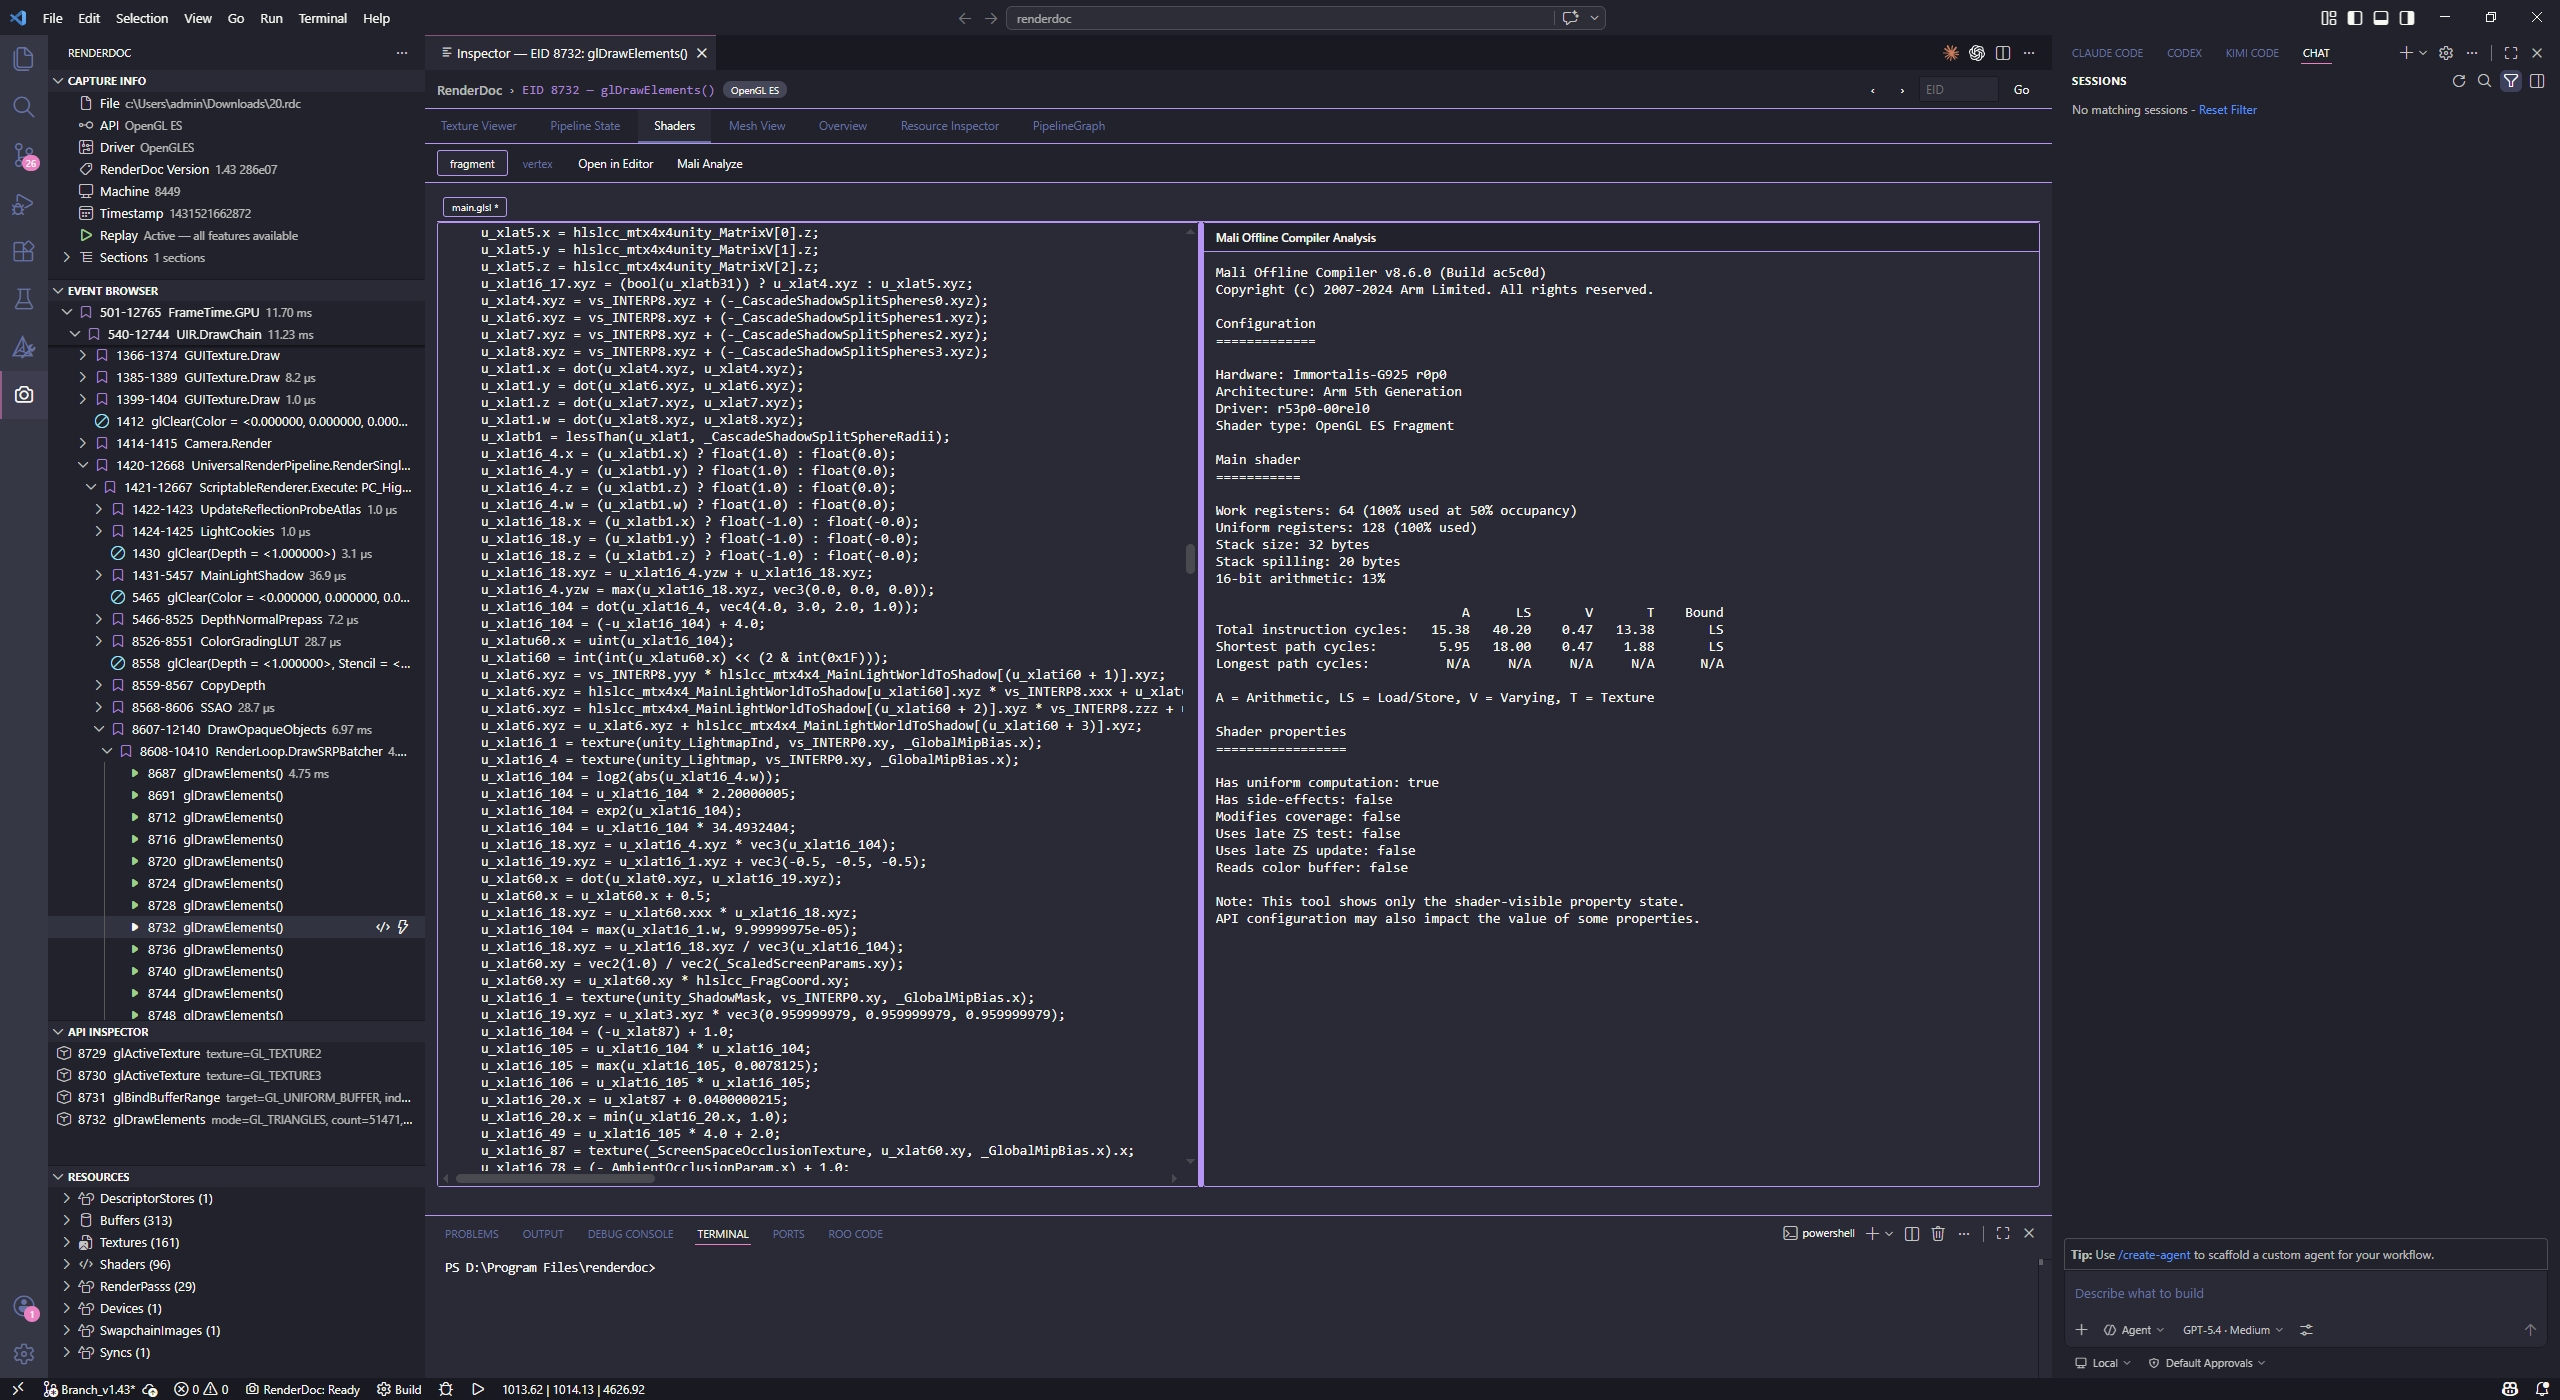
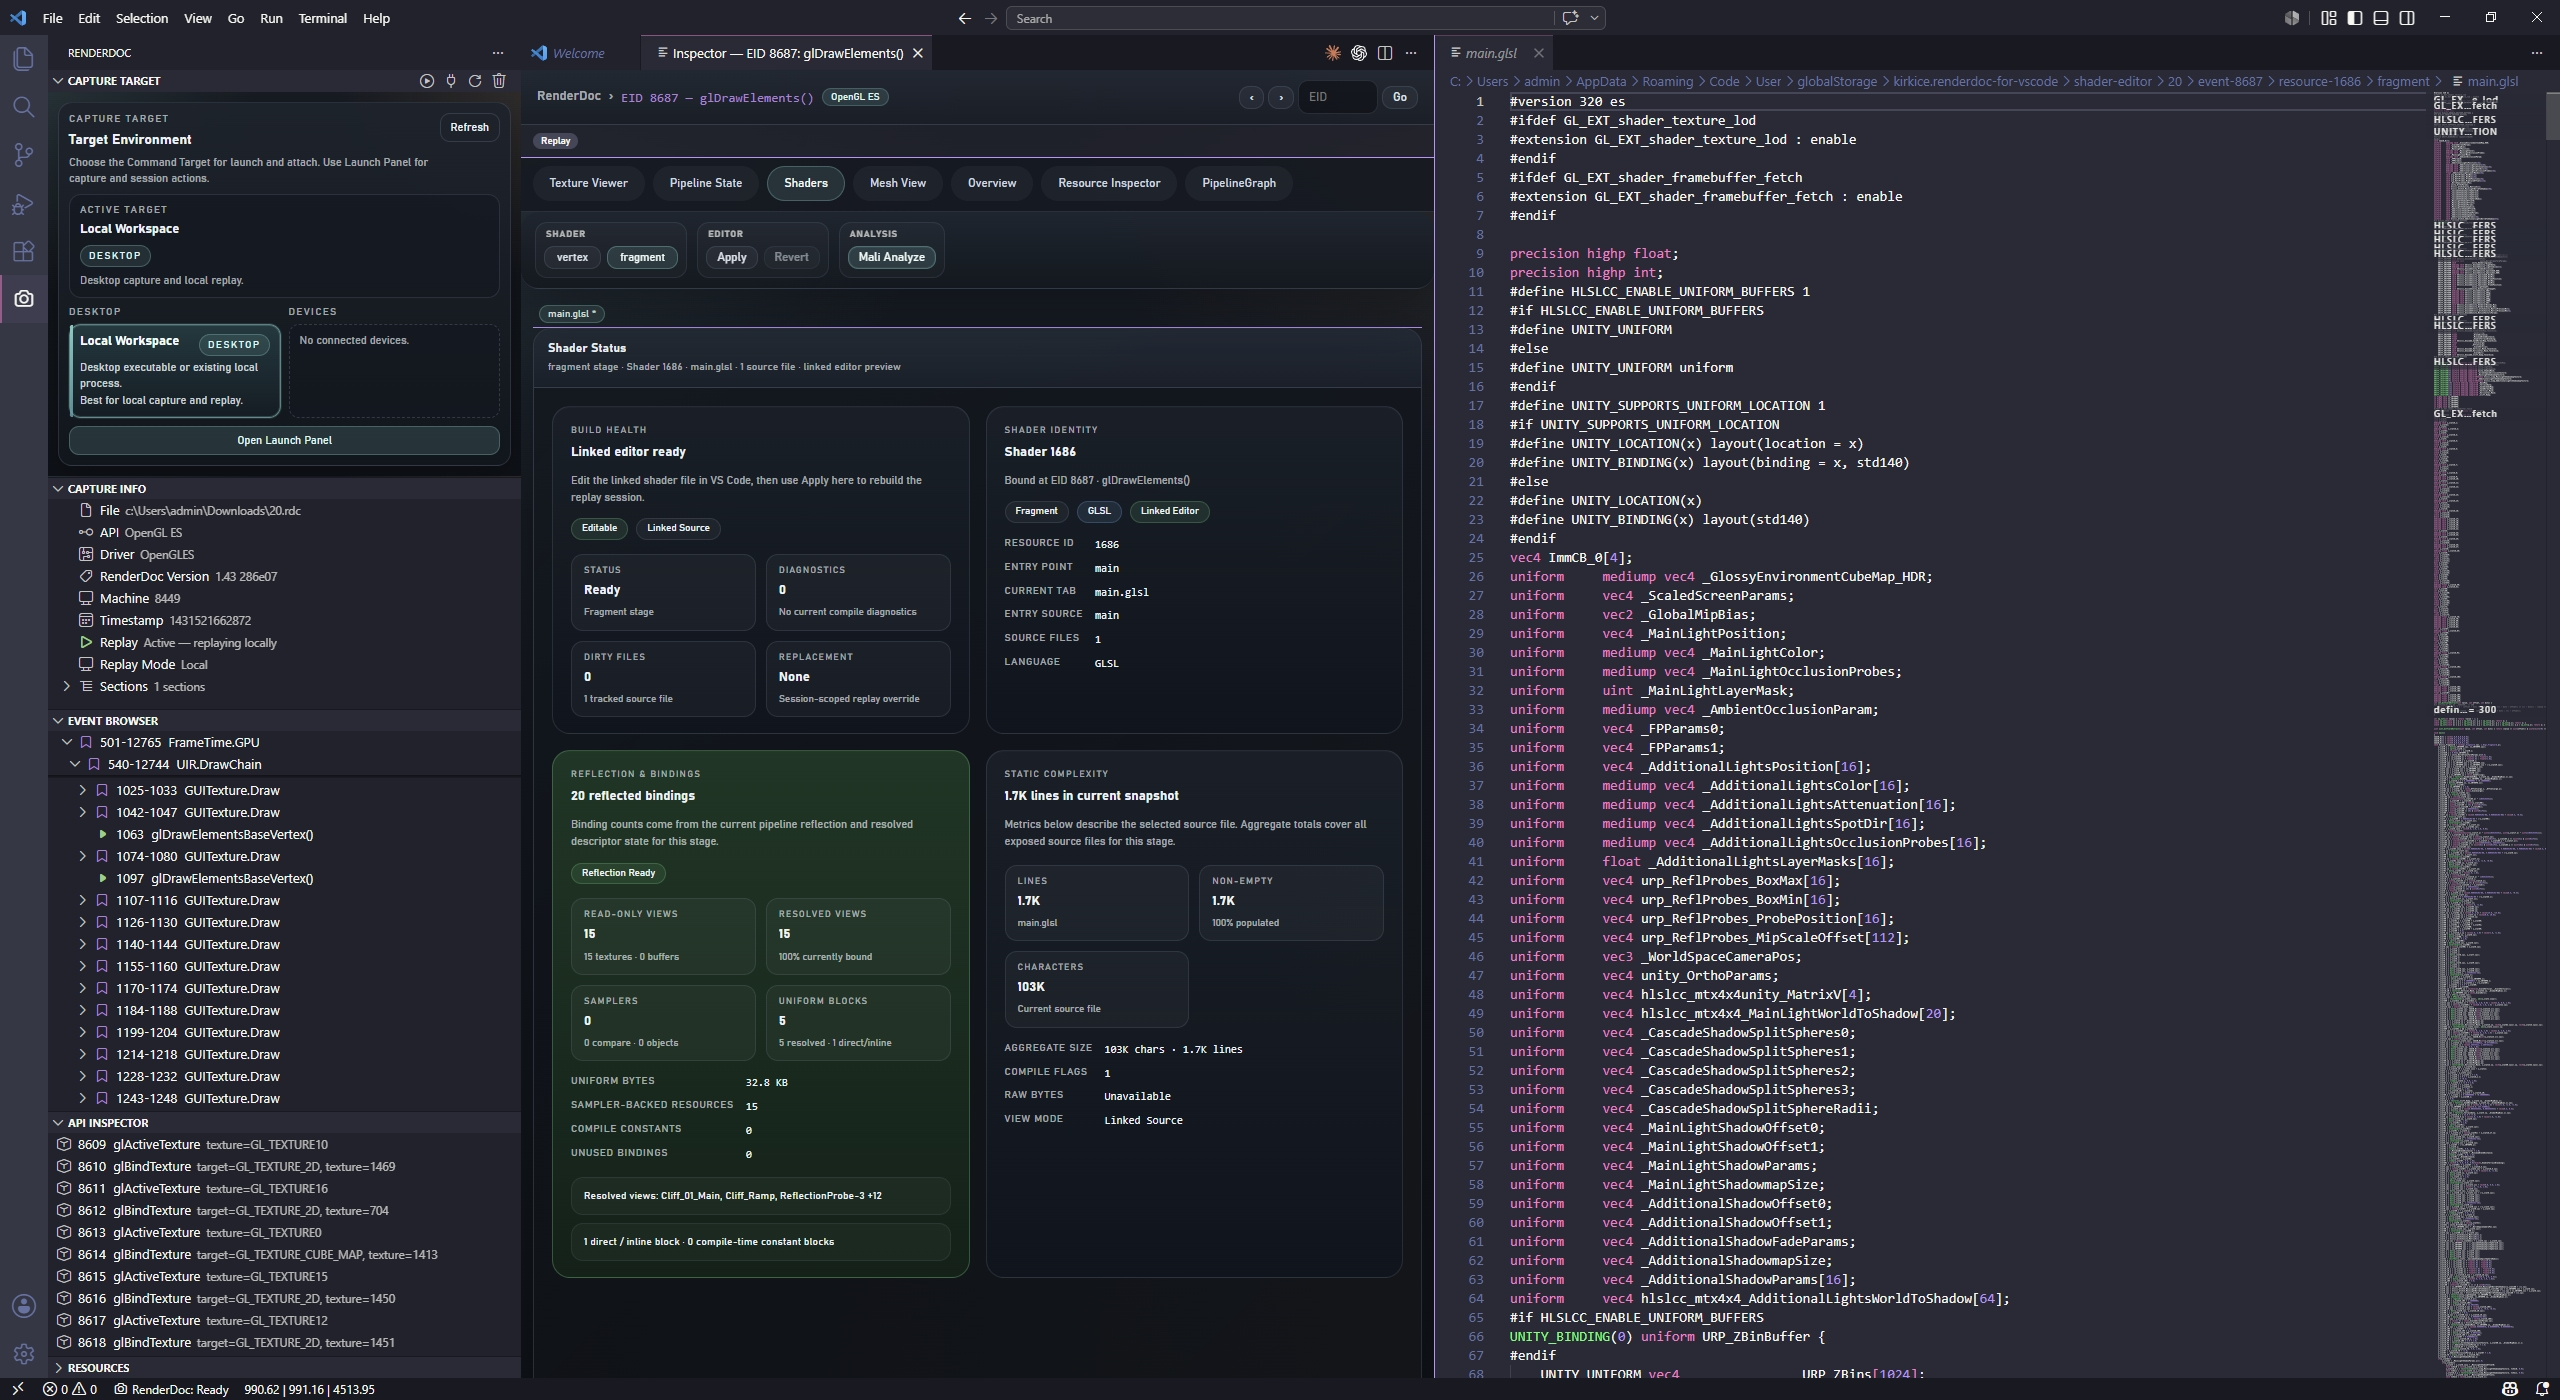
README

Changed region(s): [[0.0, 0.0307, 1.0, 1.0], [0.5, 0.0614, 0.5625, 0.0921], [0.4062, 0.1229, 0.4375, 0.1536]]

diff --git a/README.md b/README.md
@@ -110,12 +110,12 @@ Analyze any shader directly from the Inspector's Shaders tab using the **Mali Of
 <tr>
 <td width="50%" valign="top" align="center">
     <b>[Placeholder]</b><br />
-    Suggested file: <code>screenshots/capture-overview.png</code><br />
+    Suggested file: <code>screenshots/capture-overview.jpeg</code><br /> 
     <sub><b>Overview</b> — frame thumbnail, API and driver metadata, and capture summary.</sub>
 </td>
 <td width="50%" valign="top" align="center">
     <b>[Placeholder]</b><br />
-    Suggested file: <code>screenshots/draw-calls-and-resources.png</code><br />
+    Suggested file: <code>screenshots/draw-calls-and-resources.jpeg</code><br />
     <sub><b>Sidebar Views</b> — Draw Calls, Resources, and selection context in the activity bar.</sub>
 </td>
 </tr>
@@ -127,51 +127,51 @@ Analyze any shader directly from the Inspector's Shaders tab using the **Mali Of
 <tr>
 <td width="33.3%" valign="top" align="center">
     <b>[Placeholder]</b><br />
-    Suggested file: <code>screenshots/pipeline-state.png</code><br />
+    Suggested file: <code>screenshots/pipeline-state.jpeg</code><br />
     <sub><b>Pipeline State</b> — inspect bound stages and per-draw graphics state.</sub>
 </td>
 <td width="33.3%" valign="top" align="center">
     <b>[Placeholder]</b><br />
-    Suggested file: <code>screenshots/pipeline-graph-overview.png</code><br />
+    Suggested file: <code>screenshots/pipeline-graph-overview.jpeg</code><br />
     <sub><b>Pipeline Graph</b> — render-flow visualization derived from the full event hierarchy.</sub>
 </td>
 <td width="33.3%" valign="top" align="center">
     <b>[Placeholder]</b><br />
-    Suggested file: <code>screenshots/pipeline-graph-detail.png</code><br />
+    Suggested file: <code>screenshots/pipeline-graph-detail.jpeg</code><br />
     <sub><b>Pipeline Graph Detail</b> — drill into pass groups, representative commands, and selected-event context.</sub>
 </td>
 </tr>
 <tr>
 <td width="33.3%" valign="top" align="center">
     <b>[Placeholder]</b><br />
-    Suggested file: <code>screenshots/shaders.png</code><br />
+    Suggested file: <code>screenshots/shaders.jpeg</code><br />
     <sub><b>Shaders</b> — source, disassembly, and shader-stage analysis in one place.</sub>
 </td>
 <td width="33.3%" valign="top" align="center">
     <b>[Placeholder]</b><br />
-    Suggested file: <code>screenshots/texture-view.png</code><br />
+    Suggested file: <code>screenshots/texture-view.jpeg</code><br />
     <sub><b>Texture View</b> — inspect render targets and sampled textures for the current draw.</sub>
 </td>
 <td width="33.3%" valign="top" align="center">
     <b>[Placeholder]</b><br />
-    Suggested file: <code>screenshots/texture-info.png</code><br />
+    Suggested file: <code>screenshots/texture-info.jpeg</code><br />
     <sub><b>Texture Info</b> — zoom into an individual texture with focused metadata.</sub>
 </td>
 </tr>
 <tr>
 <td width="33.3%" valign="top" align="center">
     <b>[Placeholder]</b><br />
-    Suggested file: <code>screenshots/mesh-view.png</code><br />
+    Suggested file: <code>screenshots/mesh-view.jpeg</code><br />
     <sub><b>Mesh View</b> — inspect vertex/index data and geometry layout at a selected event.</sub>
 </td>
 <td width="33.3%" valign="top" align="center">
     <b>[Placeholder]</b><br />
-    Suggested file: <code>screenshots/resource-inspector.png</code><br />
+    Suggested file: <code>screenshots/resource-inspector.jpeg</code><br />
     <sub><b>Resource Inspector</b> — browse textures, buffers, and shader resources across the capture.</sub>
 </td>
 <td width="33.3%" valign="top" align="center">
     <b>[Placeholder]</b><br />
-    Suggested file: <code>screenshots/inspector-overview.png</code><br />
+    Suggested file: <code>screenshots/inspector-overview.jpeg</code><br />
     <sub><b>Overview</b> — capture metadata, API and driver details, and frame summary.</sub>
 </td>
 </tr>
@@ -183,12 +183,12 @@ Analyze any shader directly from the Inspector's Shaders tab using the **Mali Of
 <tr>
 <td width="50%" valign="top" align="center">
     <b>[Placeholder]</b><br />
-    Suggested file: <code>screenshots/launch-panel.png</code><br />
+    Suggested file: <code>screenshots/launch-panel.jpeg</code><br />
     <sub><b>Launch Panel</b> — configure the target executable, arguments, output path, and capture trigger.</sub>
 </td>
 <td width="50%" valign="top" align="center">
     <b>[Placeholder]</b><br />
-    Suggested file: <code>screenshots/capture-target-view.png</code><br />
+    Suggested file: <code>screenshots/capture-target-view.jpeg</code><br />
     <sub><b>Capture Target View</b> — switch between local and remote targets, attach, and trigger captures.</sub>
 </td>
 </tr>
@@ -200,12 +200,12 @@ Analyze any shader directly from the Inspector's Shaders tab using the **Mali Of
 <tr>
 <td width="50%" valign="top" align="center">
     <b>[Placeholder]</b><br />
-    Suggested file: <code>screenshots/copilot-chat.png</code><br />
+    Suggested file: <code>screenshots/copilot-chat.jpeg</code><br />
     <sub><b>Copilot Chat</b> — use <code>@renderdoc</code> or plain Copilot to analyze the current frame, draw calls, resources, and shaders.</sub>
 </td>
 <td width="50%" valign="top" align="center">
     <b>[Placeholder]</b><br />
-    Suggested file: <code>screenshots/mcp-connection-info.png</code><br />
+    Suggested file: <code>screenshots/mcp-connection-info.jpeg</code><br />
     <sub><b>MCP Connection Info</b> — copy the local endpoint and client snippets for other MCP-capable tools.</sub>
 </td>
 </tr>
